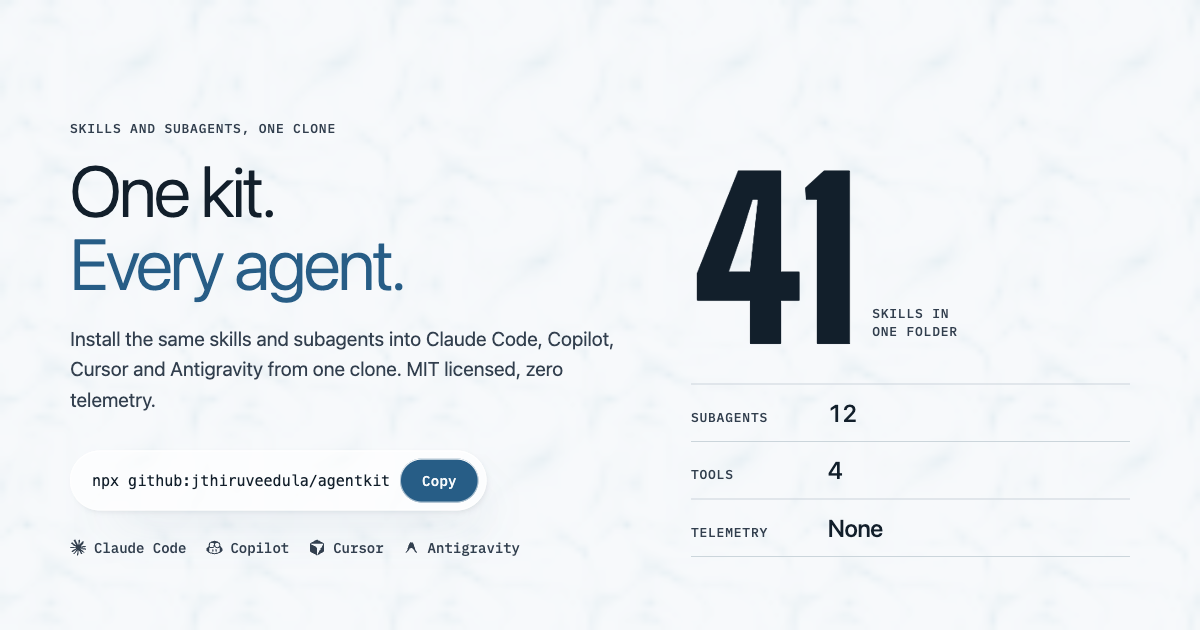
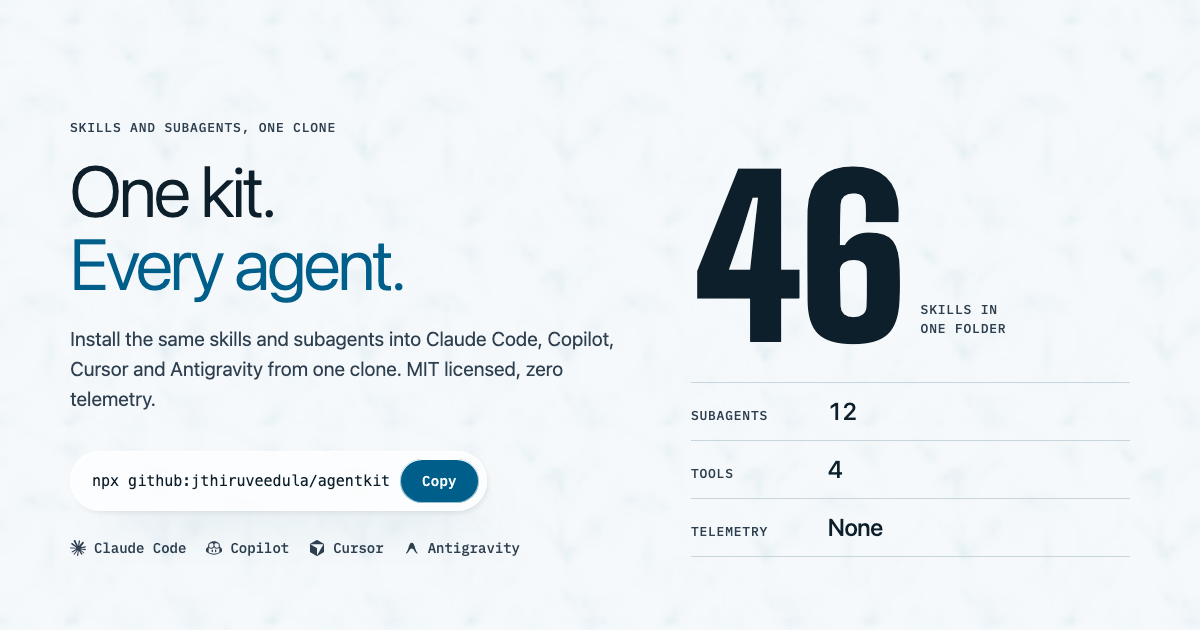
fix(site): regenerate og image with current counts and add build-og script (#124)
Render the hero at 1200x630 with a local headless browser so the card no longer goes stale.

diff --git a/README.md b/README.md
@@ -433,6 +433,8 @@ frontmatter (`site/scripts/build-catalog.py` → `site/assets/skills.json`). Red
 no-JS visitors get the same plates as a static printed manual. Deploys via GitHub Pages when a
 release is published. The [audit dashboard](https://jthiruveedula.github.io/agentkit/audit/)
 shows live repo scores from the `agentkit-audit` skill (`skills/agentkit-audit/scripts/audit.py`).
+The social card `site/assets/og.png` is rendered from the hero by `bash site/scripts/build-og.sh`
+(local headless Chrome, Chromium or Edge); rerun it after adding or removing skills.
 
 ## Security
 
